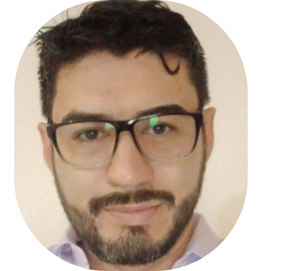
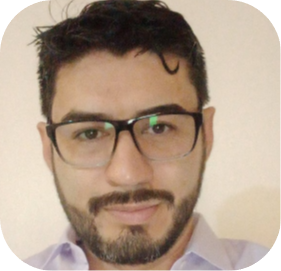
fix: Update profile image source in Header component

diff --git a/src/components/Header.tsx b/src/components/Header.tsx
@@ -231,7 +231,7 @@ const Header: React.FC<HeaderProps> = ({ language, onLanguageChange }) => {
         <ProfileCard>
           <ProfileImage>
             <img 
-              src="/perfil2-modified.png" 
+              src="/profile.png" 
               alt="Juan Gabriel Cabral - Senior Software Architect Engineer" 
             />
           </ProfileImage>
